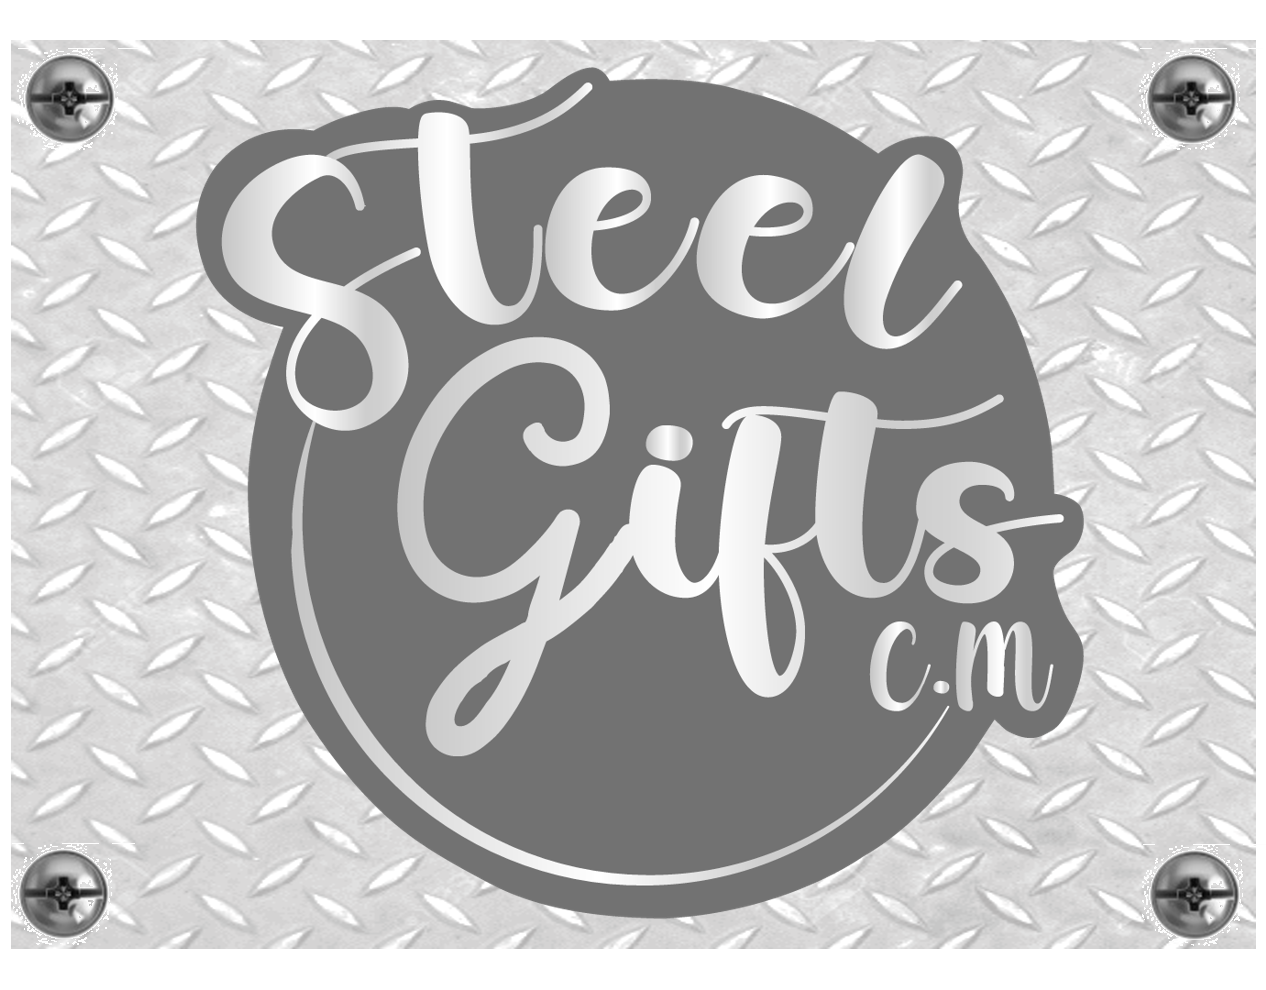
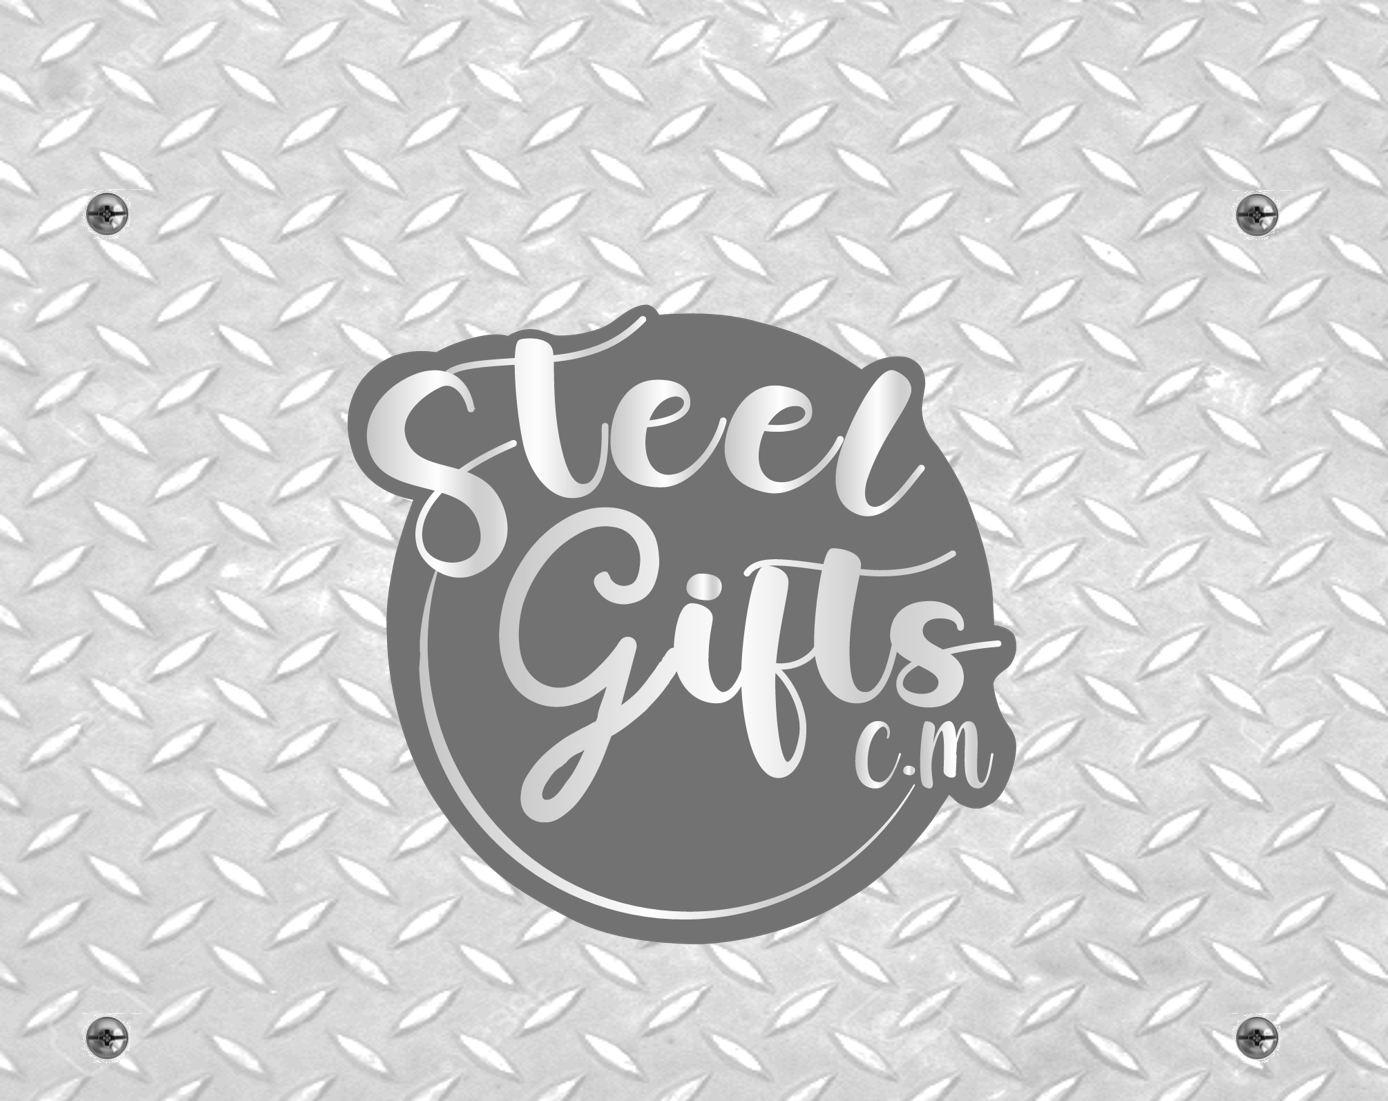
added changes to image in background

diff --git a/client/src/index.css b/client/src/index.css
@@ -160,7 +160,7 @@ input:focus {
 }
 
 .background-image {
-  background-image: url("../src/assets/backgroundGray.png");
+  background-image: url("../src/assets/background2.png");
   background-repeat: no-repeat;
   object-fit: cover;
   width: auto;
